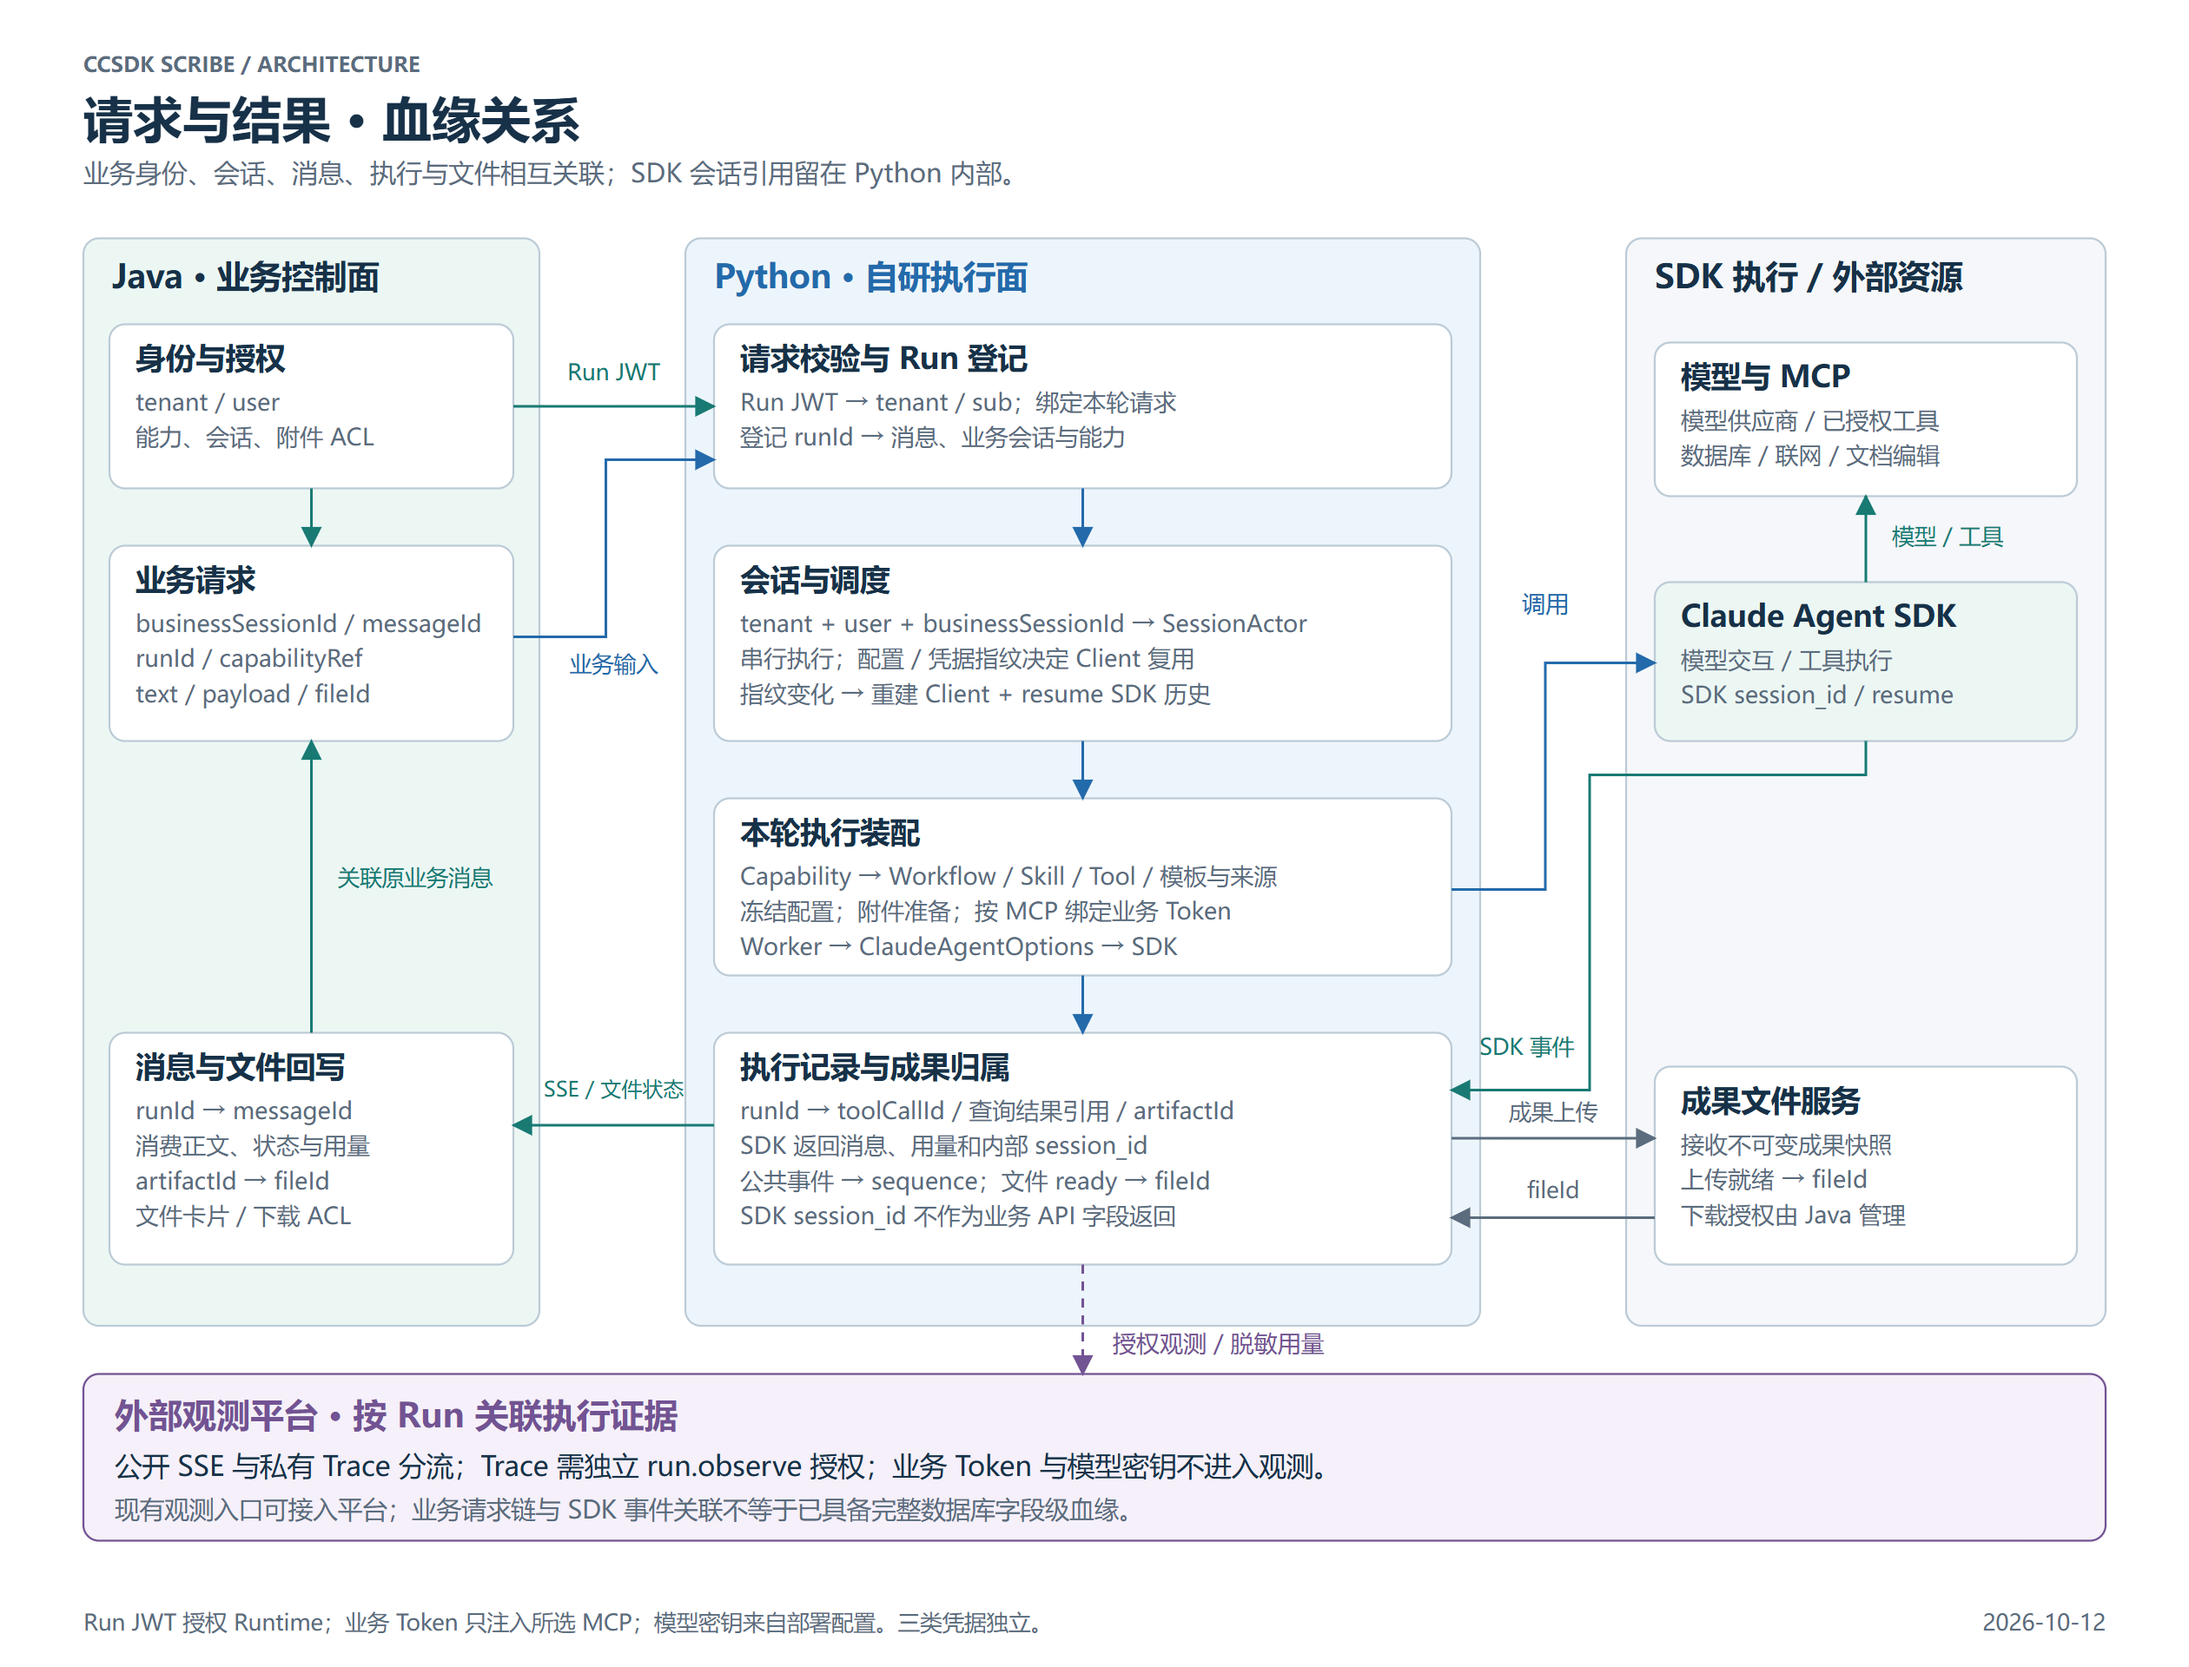
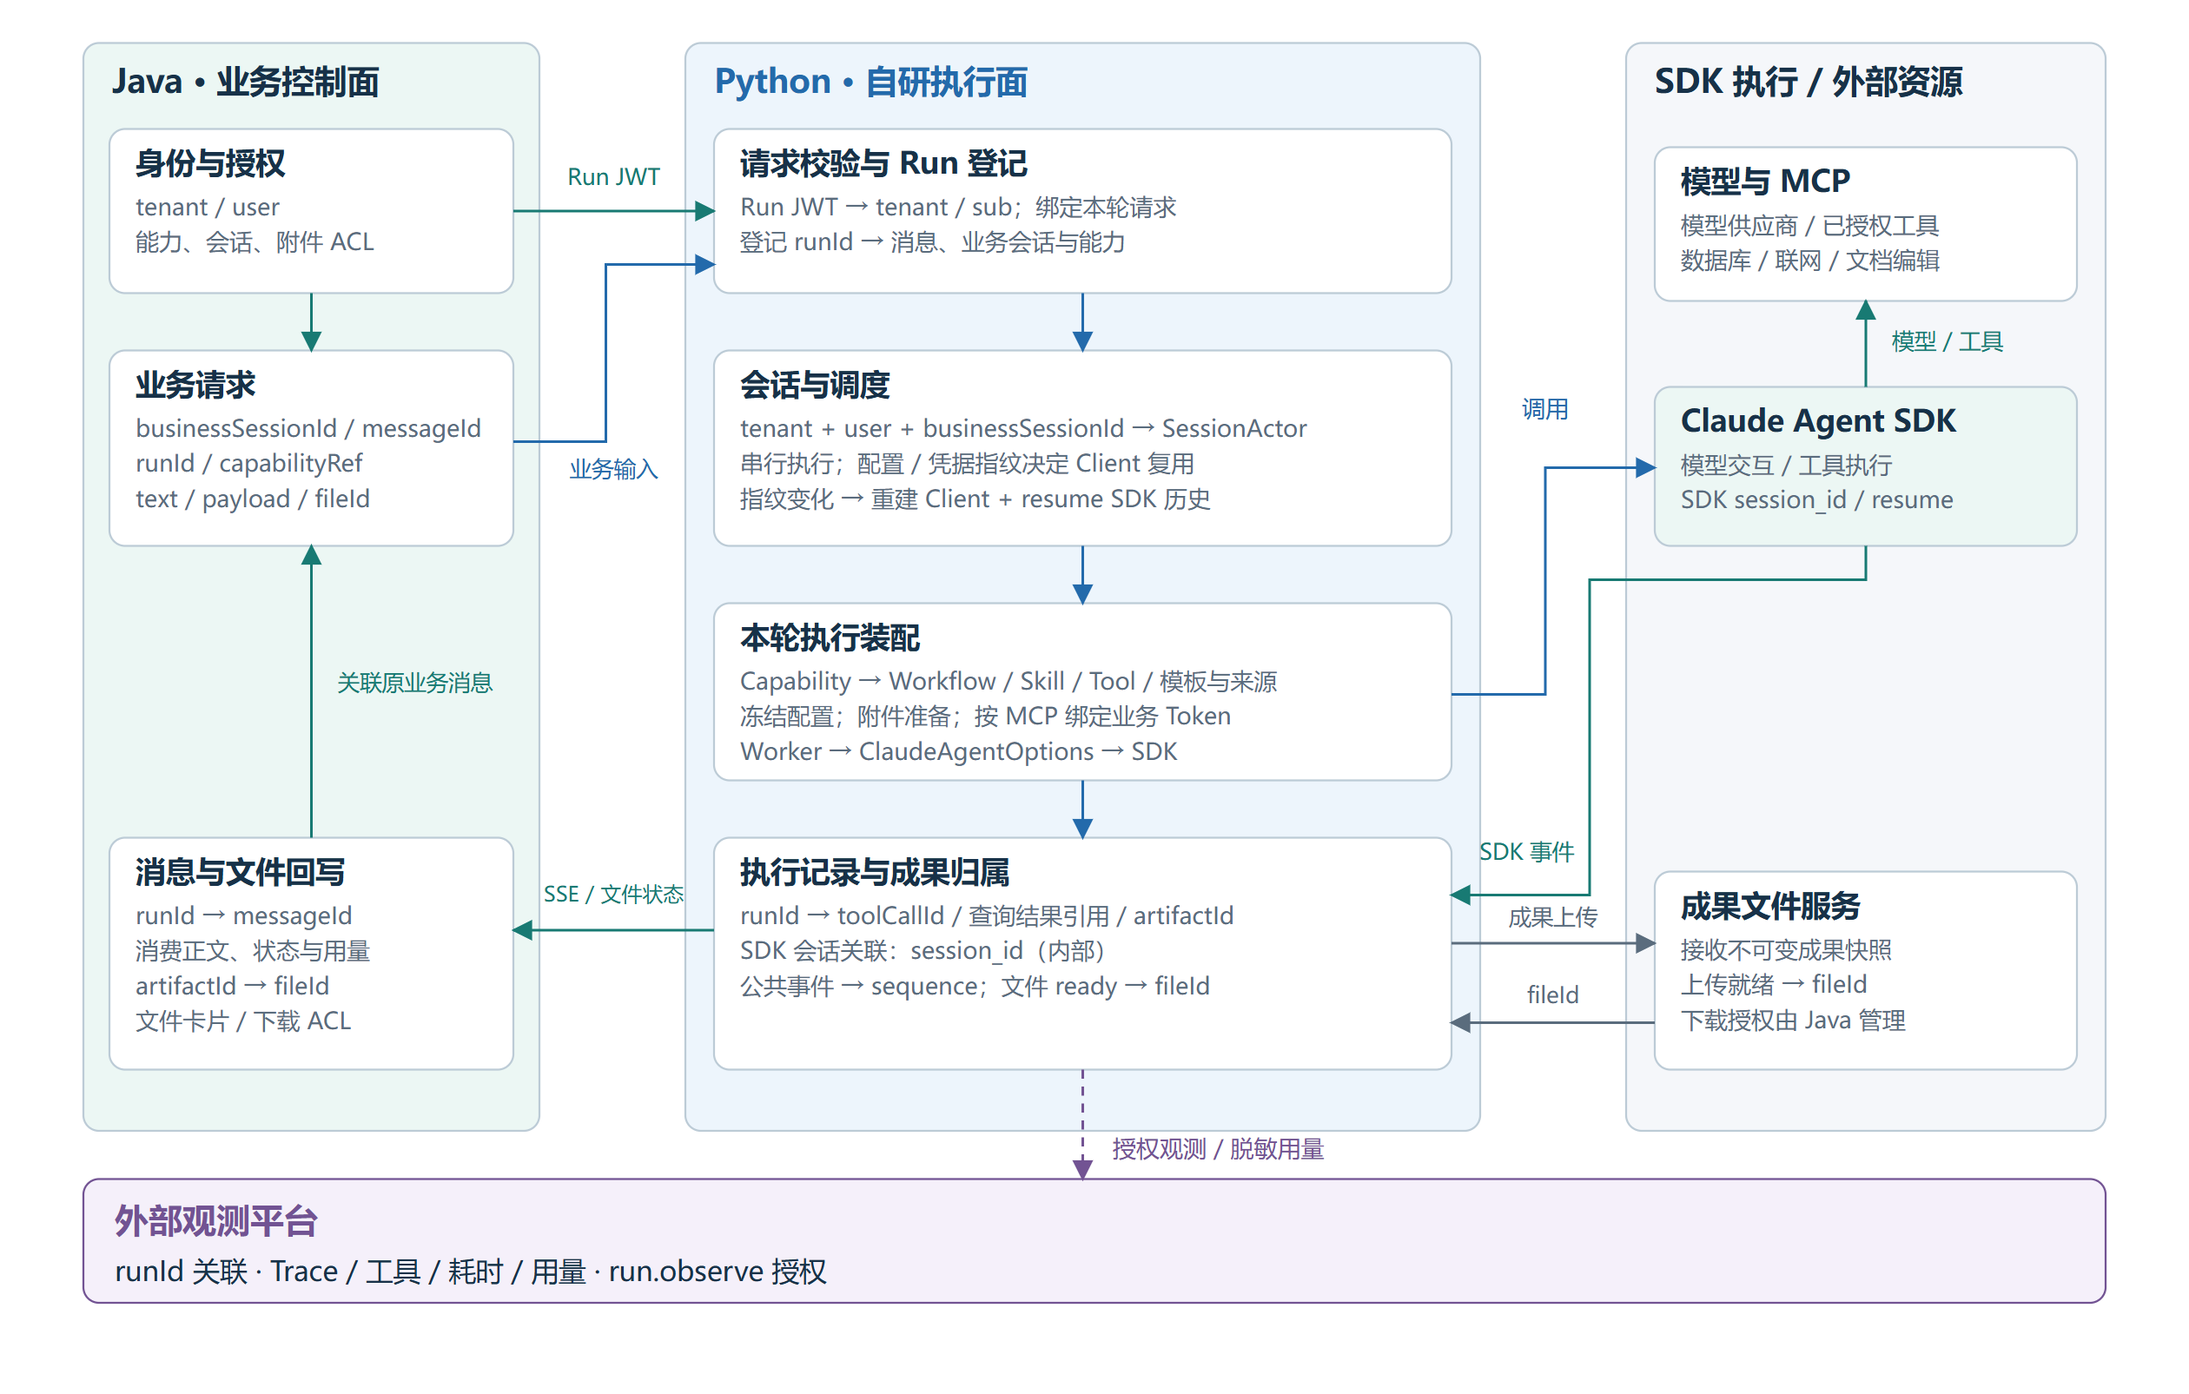
docs: 精简分层总览和请求血缘图
仅保留两张图，业务能力拆成独立小块，移除页面标题与冗余说明。验证：SVG 边界、PNG 渲染、视图切换、缩放、下载链接、390px 页面与控制台检查通过。

REQ-001 | 不适用 | 本次仅调整图示呈现，按 MCP 注入关系保留 | 未改动或重新验收凭据链路。REQ-002 | 不适用 | Capability 入口及内部执行资产关系保留 | 未改动或重新验收运行时授权方案。

diff --git a/doc/diagrams/index.html b/doc/diagrams/index.html
@@ -7,46 +7,29 @@
   <style>
     :root{color-scheme:light;--ink:#173148;--muted:#5a6c7d;--blue:#236aab;--line:#d8e2e9;--bg:#f4f7fa}
     *{box-sizing:border-box}body{margin:0;background:var(--bg);color:var(--ink);font-family:"Microsoft YaHei","PingFang SC",sans-serif}
-    header,main,footer{max-width:1728px;margin:auto;padding:24px 40px}header{padding-bottom:16px}h1{margin:6px 0 12px;font-size:30px;font-weight:650}
-    .eyebrow{font:12px Consolas,monospace;letter-spacing:2px;color:var(--blue)}p{margin:0;color:var(--muted);line-height:1.7;font-size:14px}
-    .toolbar{display:flex;justify-content:space-between;gap:16px;flex-wrap:wrap;margin-top:22px}nav,.actions{display:flex;align-items:center;gap:8px;flex-wrap:wrap}
+    header,main{max-width:1728px;margin:auto;padding:18px 40px}header{padding-bottom:14px}
+    .toolbar{display:flex;justify-content:space-between;gap:16px;flex-wrap:wrap}nav,.actions{display:flex;align-items:center;gap:8px;flex-wrap:wrap}
     button,.actions a{font:inherit;font-size:14px;cursor:pointer;border:1px solid var(--line);border-radius:6px;padding:10px 16px;background:white;color:var(--ink);text-decoration:none}
     button[aria-selected="true"]{background:var(--blue);border-color:var(--blue);color:white}button:focus-visible,a:focus-visible{outline:3px solid #70a6d1;outline-offset:3px}
     main{padding-top:0}figure{margin:0;background:white;border:1px solid var(--line);overflow:auto}figure img{display:block;width:100%;height:auto}figure.actual img{width:1680px;max-width:none}
-    .caption{padding:12px 2px;font-size:13px;color:var(--muted)}footer{padding-top:0;font-size:13px;color:var(--muted)}footer a{color:var(--blue)}details{line-height:1.8}summary{cursor:pointer}table{border-collapse:collapse;margin-top:10px;width:100%}th,td{text-align:left;border-bottom:1px solid var(--line);padding:8px}th{white-space:nowrap}
-    [hidden]{display:none!important}@media(max-width:640px){header,main,footer{padding-left:16px;padding-right:16px}h1{font-size:24px}.actions,nav{gap:6px}button,.actions a{padding:9px 11px}td,th{font-size:12px}}
-    @media print{header,footer,.caption{display:none}body{background:white}main{padding:0;max-width:none}[role="tabpanel"][hidden]{display:block!important}figure{border:0;overflow:visible;break-after:page}figure img,figure.actual img{width:100%!important}}
+    [hidden]{display:none!important}@media(max-width:640px){header,main{padding-left:16px;padding-right:16px}.actions,nav{gap:6px}button,.actions a{padding:9px 11px}}
+    @media print{header{display:none}body{background:white}main{padding:0;max-width:none}[role="tabpanel"][hidden]{display:block!important}figure{border:0;overflow:visible;break-after:page}figure img,figure.actual img{width:100%!important}}
   </style>
 </head>
 <body>
 <header>
-  <div class="eyebrow">CCSDK SCRIBE / SYSTEM MAP</div>
-  <h1>分层架构与请求血缘</h1>
-  <p>突出自研 Python、SDK 底座、Java 控制面与外部平台的连接。实线为当前执行关系或接入契约，虚线为规划或待接入关系。</p>
   <div class="toolbar">
     <nav role="tablist" aria-label="架构视图">
       <button id="tab-system" role="tab" aria-selected="true" aria-controls="panel-system" data-name="system-architecture">分层总览</button>
-      <button id="tab-assets" role="tab" aria-selected="false" aria-controls="panel-assets" data-name="capability-assets">能力与执行资产</button>
       <button id="tab-lineage" role="tab" aria-selected="false" aria-controls="panel-lineage" data-name="request-lineage">请求与结果血缘</button>
     </nav>
     <div class="actions"><button id="zoom" aria-pressed="false">原始尺寸</button><a id="svg-link" href="system-architecture.svg" download>下载 SVG</a><a id="png-link" href="system-architecture.png" download>下载 PNG</a></div>
   </div>
 </header>
 <main>
-  <section id="panel-system" role="tabpanel" aria-labelledby="tab-system"><figure><img src="system-architecture.svg" alt="分层架构：Java 业务控制面之下是自研 Python Runtime，再下为 Claude Agent SDK；能力配置、观测、评测和 Dify 位于外部；沙箱和 MCP 网关标为规划。"></figure><p class="caption">多租户身份与归属控制已有；生产隔离仍须独立验收。Java 按职责契约展示，未核验其实际接入实现。</p></section>
-  <section id="panel-assets" role="tabpanel" aria-labelledby="tab-assets" hidden><figure><img src="capability-assets.svg" alt="Capability 组合可选 Workflow、Skill、Tool、模板和数据库知识，由 Python 装配后交给 SDK 执行。联网是共享工具。"></figure><p class="caption">SDK 提供 Skill 执行所需的工具与上下文；本项目由 Python 显式登记引用，正文按需读取。</p></section>
-  <section id="panel-lineage" role="tabpanel" aria-labelledby="tab-lineage" hidden><figure><img src="request-lineage.svg" alt="Java 传递授权身份和业务请求，Python 关联 Run、SessionActor、SDK 会话与工具结果，最终通过 SSE 和文件状态关联回业务消息。"></figure><p class="caption">SDK session_id 由 Python 内部管理。文件 ready 才携带远端 fileId；模型执行成功与文件交付状态分别处理。</p></section>
+  <section id="panel-system" role="tabpanel" aria-labelledby="tab-system"><figure><img src="system-architecture.svg" alt="Java 控制面、自研 Python Runtime、Claude Agent SDK 分层总览，包含业务能力小块及外部平台连接。"></figure></section>
+  <section id="panel-lineage" role="tabpanel" aria-labelledby="tab-lineage" hidden><figure><img src="request-lineage.svg" alt="Java 业务请求经过 Python 会话调度和 SDK 执行，通过 SSE 和文件状态关联回业务消息。"></figure></section>
 </main>
-<footer>
-  <details><summary>核对范围与来源 · 2026-10-12</summary>
-    <p>以当前工作区源码和契约为依据，图示不代表已部署。外部平台、沙箱和 MCP 网关为规划连接。此页为架构视图，字段与规则以原契约为准。</p>
-    <p>来源：<code>ARCHITECTURE.md</code>、<code>doc/specs/ccsdk-runtime-interface.md</code>；实现：<code>python/server.py</code>、<code>python/runtime/</code> 下的 <code>config.py</code>、<code>session_actor.py</code>、<code>worker_pool.py</code>。</p>
-    <table><thead><tr><th>要求</th><th>状态</th><th>依据与差距</th></tr></thead><tbody>
-      <tr><td>REQ-001</td><td>部分满足</td><td>血缘图区分 Run JWT、业务 Token 和模型密钥；凭据按 MCP 注入。Java 真实透传与运行中撤销未验收。</td></tr>
-      <tr><td>REQ-002</td><td>部分满足</td><td>能力图保留 Capability 业务入口与内部执行资产边界。Java 授权、外部管理平台与生产隔离仍需联合验收。</td></tr>
-    </tbody></table>
-  </details>
-</footer>
 <script>
   const tabs=[...document.querySelectorAll('[role="tab"]')];
   const figures=[...document.querySelectorAll('figure')];
